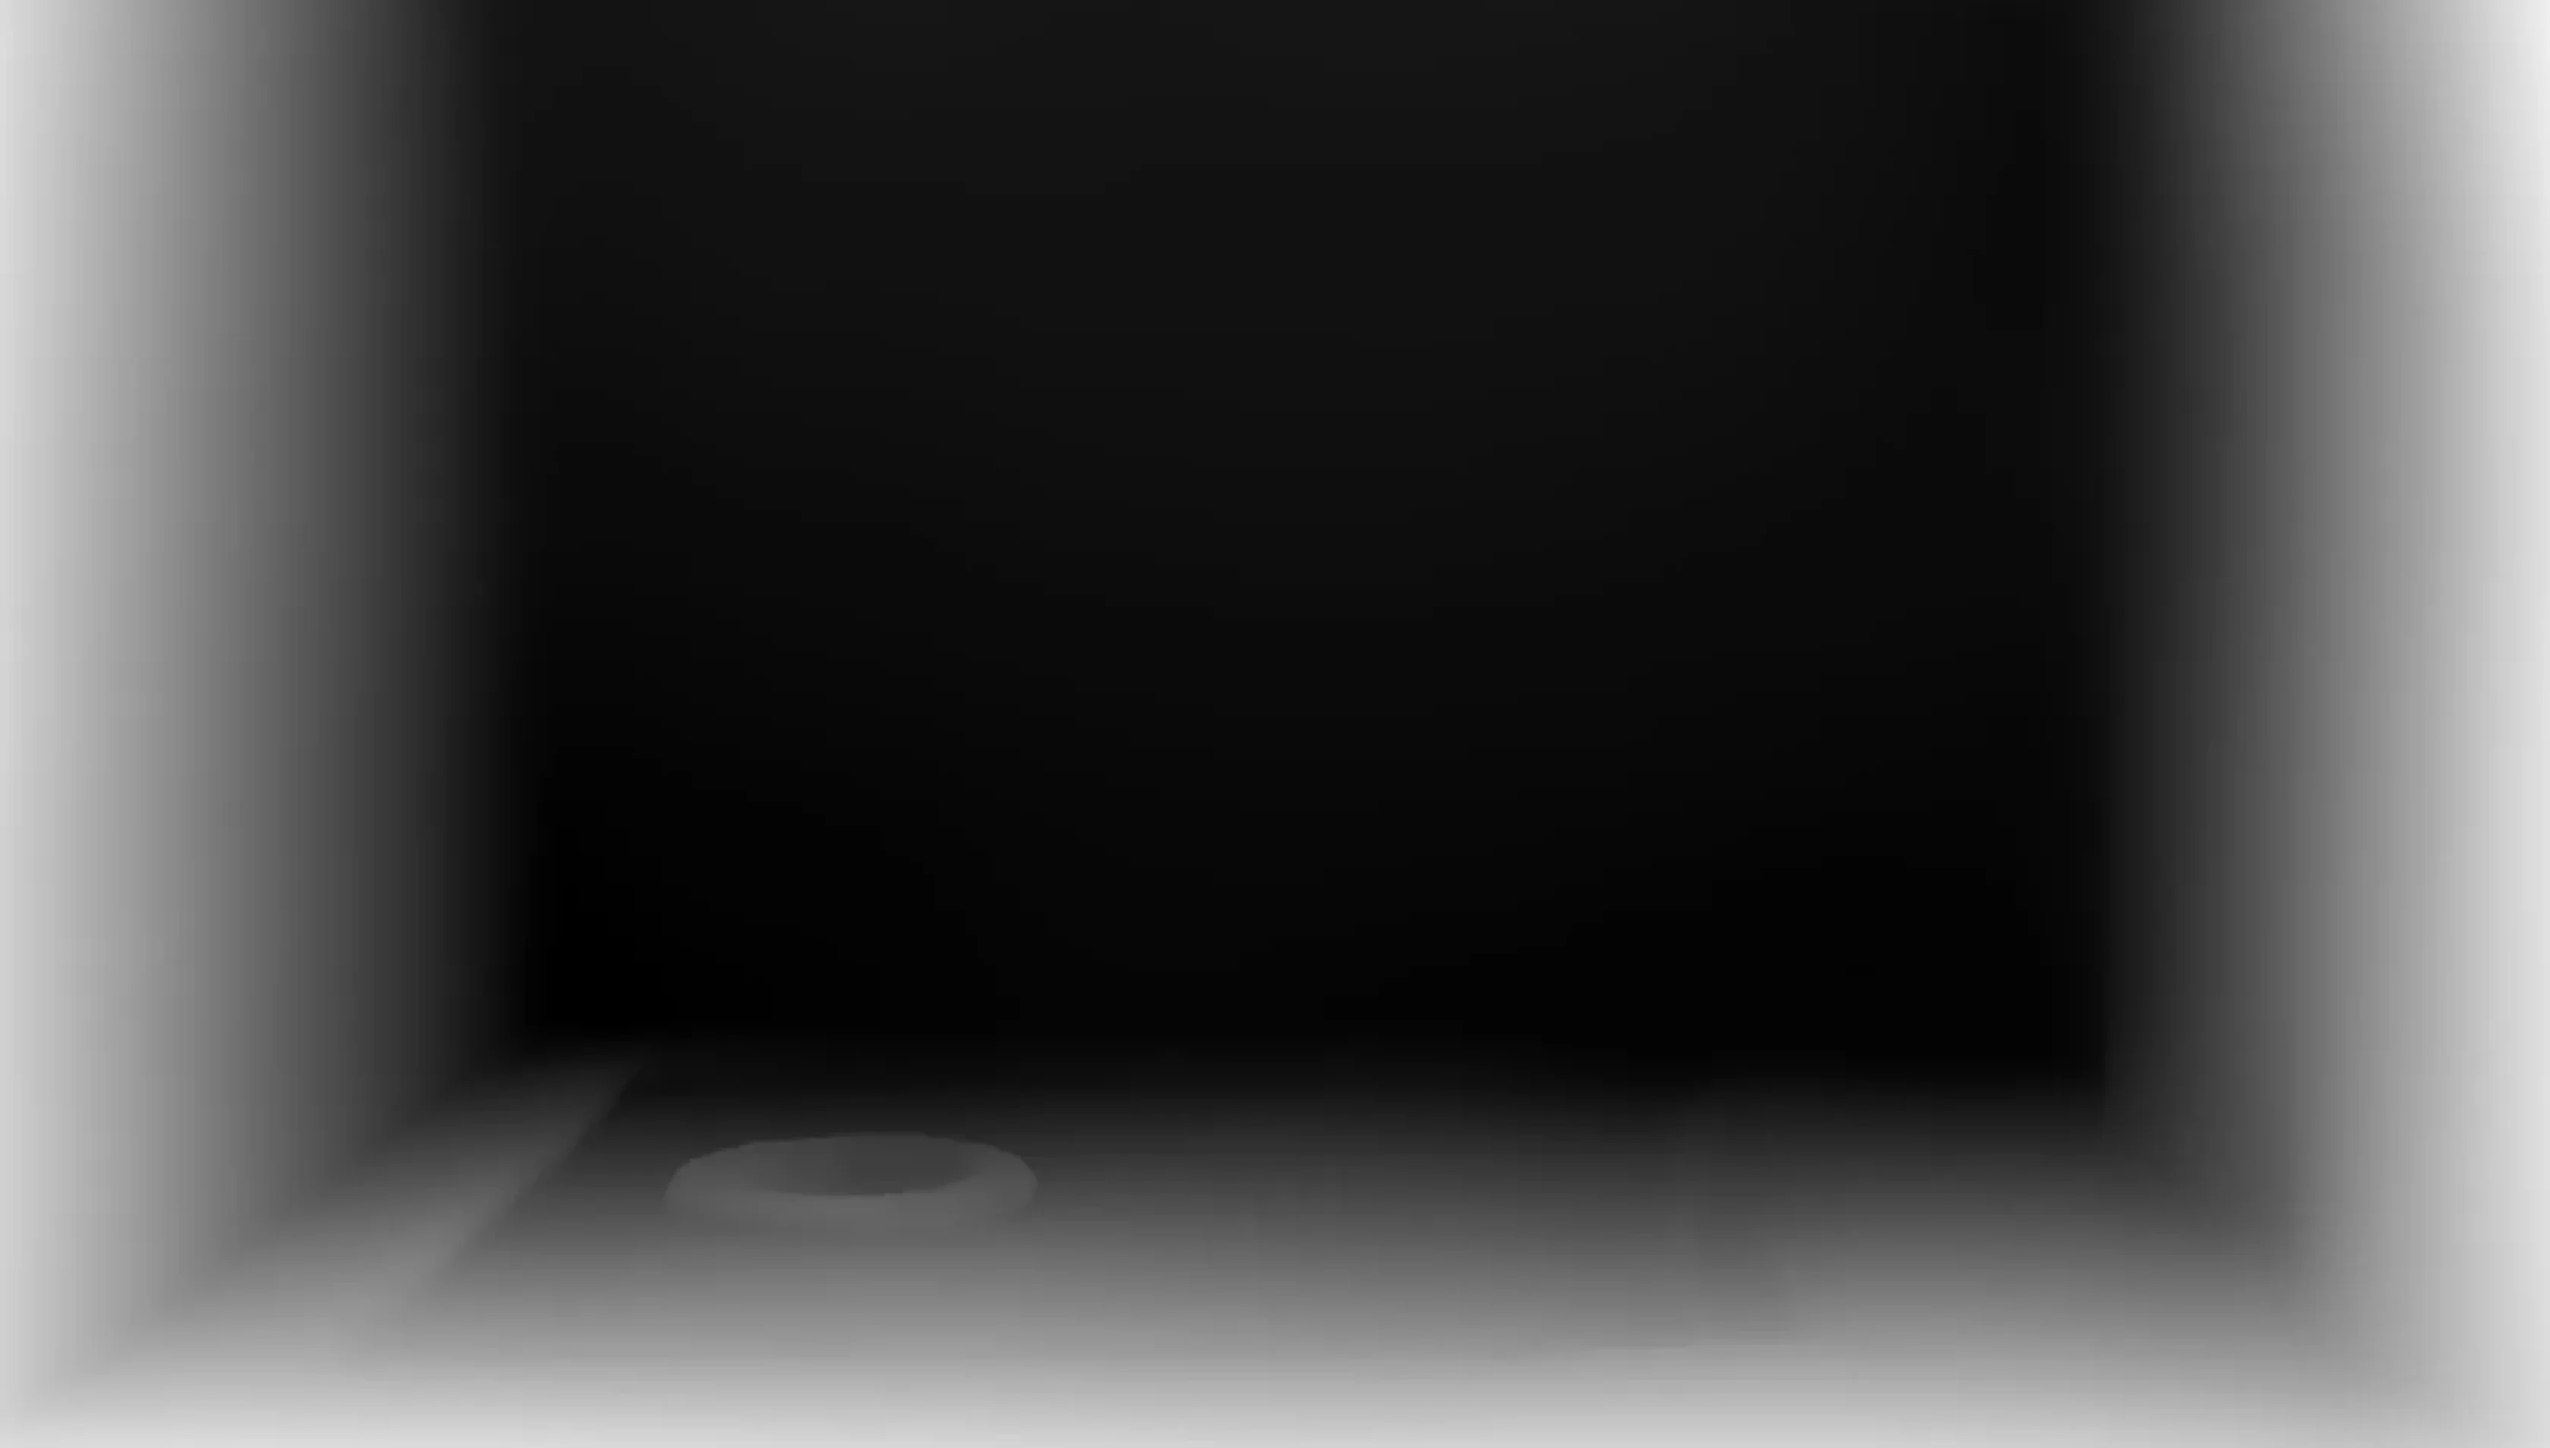
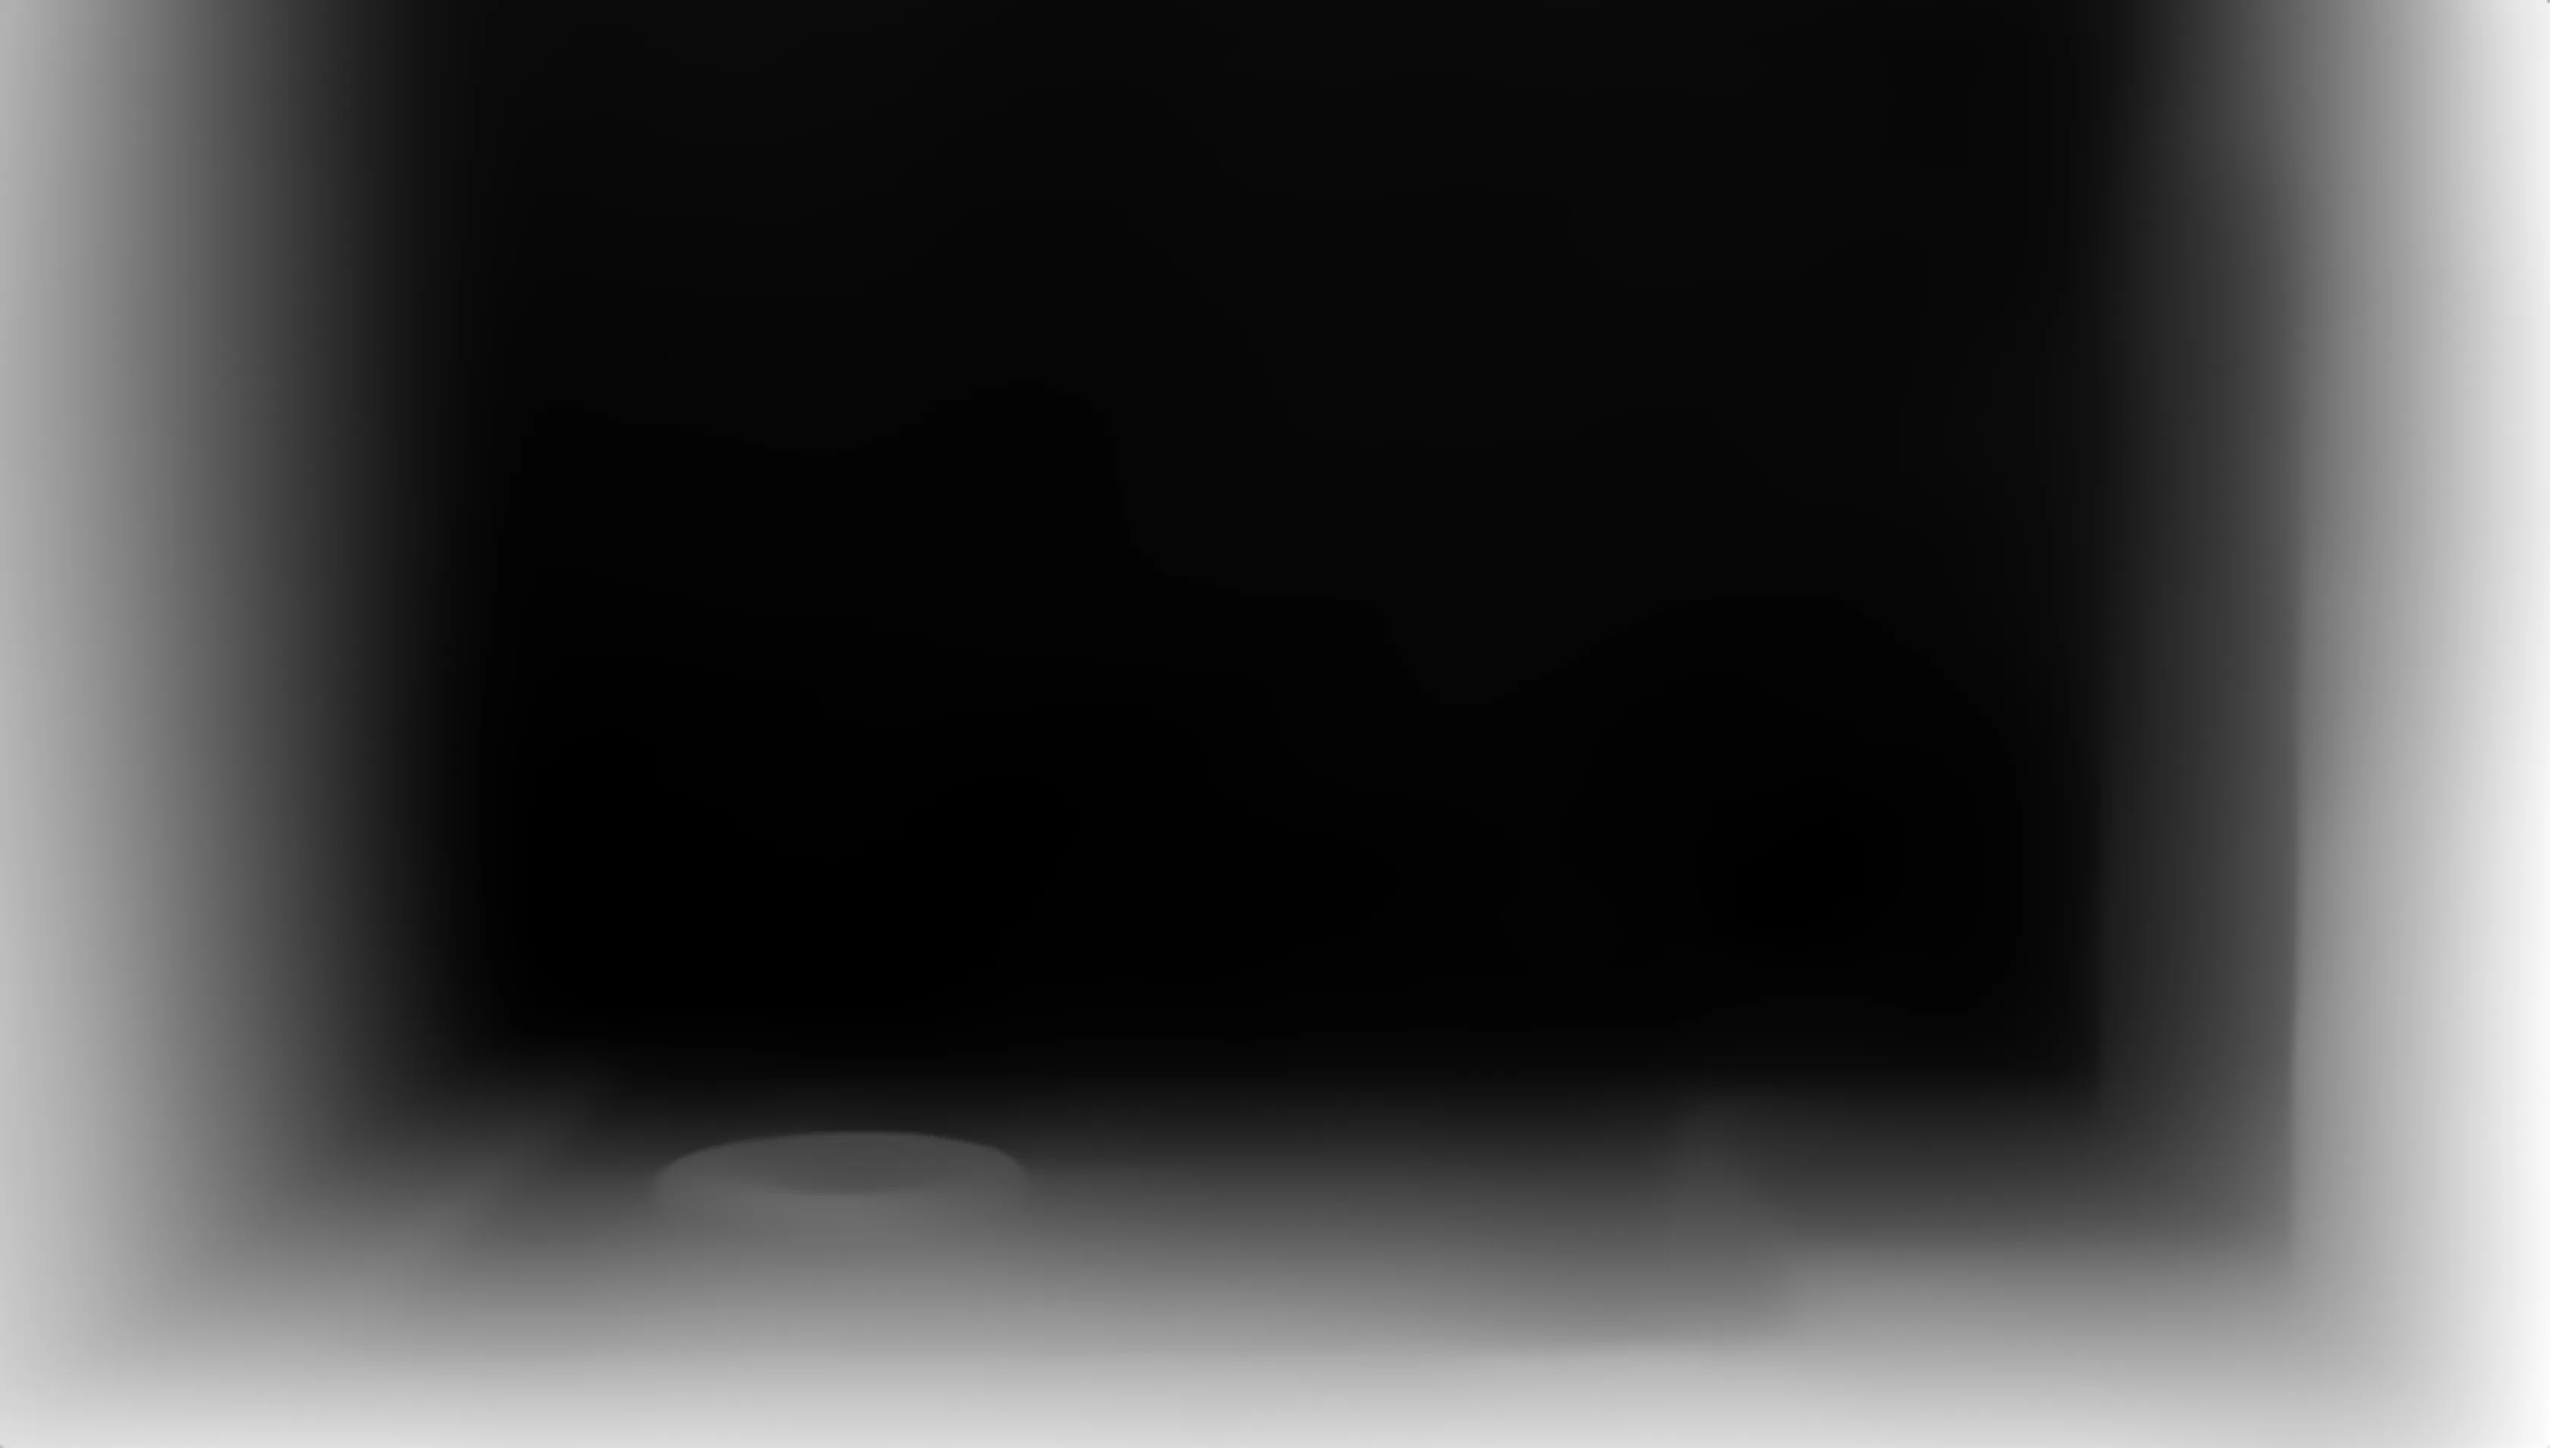
feat: enhanced index

Changed region(s): [[0.0, 0.0, 0.1875, 0.6494], [0.875, 0.6494, 1.0, 1.0]]

diff --git a/app/components/indexPage/ArtSection.vue b/app/components/indexPage/ArtSection.vue
@@ -2,21 +2,21 @@
     <div class="content-section">
         <h2 class="section-header">Art</h2>
         <div class="project-display">
-            <div class="depth-image-container" draggable="false">
+            <div class="depth-image-container" id="poolcore-container" draggable="false">
                 <RevealSlider v-if="!showMouseWarning">
                     <template #foreground>
                         <ParallaxWindowMousetrack albedo="/assets/index/poolcore-blank.webp"
-                            depth="/assets/index/poolcore-depth.webp" :sensitivity-x="0.02" :sensitivity-y="0.02" />
+                            depth="/assets/index/poolcore-depth.webp" :sensitivity-x="0.005" :sensitivity-y="0.005" />
                     </template>
                     <template #background>
-                        <ParallaxWindowMousetrack src="/assets/index/poolcore.webp"
-                        :sensitivity-x="0.02" :sensitivity-y="0.02"/>
+                        <ParallaxWindowMousetrack src="/assets/index/poolcore.webp" :sensitivity-x="0.005"
+                            :sensitivity-y="0.005" />
                     </template>
                 </RevealSlider>
                 <RevealSlider v-else>
                     <template #foreground>
                         <ParallaxWindowScrolltrack albedo="/assets/index/poolcore-blank.webp"
-                            depth="/assets/index/poolcore-depth.webp":sensitivity="0.3" :offset="0.2" />
+                            depth="/assets/index/poolcore-depth.webp" :sensitivity="0.3" :offset="0.2" />
                     </template>
                     <template #background>
                         <ParallaxWindowScrolltrack src="/assets/index/poolcore.webp" :sensitivity="0.3" :offset="0.2" />
@@ -30,13 +30,23 @@
             </p>
             <div class="cat-img-container">
                 <div class="depth-image-container" id="cat-parallax" draggable="false">
-                    <ParallaxWindowMousetrack v-if="!showMouseWarning" src="/assets/index/Cat.webp"
-                        :sensitivity-x="0.02" :sensitivity-y="0.02" :view-height=".45" :offset-y="-2" />
-                    <ParallaxWindowScrolltrack v-else src="/assets/index/Cat.webp" :sensitivity="0.2" :view-height="0.7"
-                        :offset="-.5" :angle="0.45" />
+                    <ParallaxWindowMousetrack v-if="!showMouseWarning" class="class-parallax-img"
+                        src="/assets/index/cat.webp" :sensitivity-x="0.01" :sensitivity-y="0.01" :view-height=".45"
+                        :offset-y="-5" />
+                    <ParallaxWindowScrolltrack v-else src="/assets/index/cat.webp" class="class-parallax-img"
+                        :sensitivity="0.2" :view-height="0.7" :offset="-.5" :angle="0.45" />
                 </div>
-                <p>I use a A7II (ILCE-7M2) for photography. This is a potrait of a random cute cat my grandma always
-                    play with at Changfeng Park, Changning. </p>
+                <div id="cat-parallax-text">
+                    <h3>Photography</h3>
+                    <div>
+                        <p>I use a A7II (ILCE-7M2) for photography. This is a potrait of a random cute cat my grandma
+                            always
+                            play with at Changfeng Park, Changning. </p>
+                        <p>Most of the time I don't do still photography; I do VFX and composition for my friends. I use
+                            davinci and
+                            blender on my M2 MBP 2022 13-inch.</p>
+                    </div>
+                </div>
             </div>
         </div>
     </div>
@@ -77,6 +87,8 @@ onMounted(() => {
 </script>
 
 <style lang="scss" scoped>
+@use "assets/theme.scss" as *;
+
 .content-section {
     margin: 2rem 0;
 }
@@ -92,20 +104,63 @@ onMounted(() => {
 }
 
 .cat-img-container {
-    display: flex;
+    margin: 2rem auto;
+    display: grid;
+    gap: .5rem;
     align-items: center;
-    gap: 2rem;
+
+    /* Mobile: Vertical Stack */
+    grid-template-areas:
+        "title"
+        "image"
+        "description";
 
     #cat-parallax {
-        flex: 1;
-        flex-basis: 60%;
-        min-width: 0;
+        grid-area: image;
     }
 
-    > p {
-        flex: 1;
-        flex-basis: 40%;
-        min-width: 0;
+    #cat-parallax-text {
+        display: contents;
+    }
+
+    h3 {
+        grid-area: title;
+        margin: 0;
+    }
+
+    p {
+        grid-area: description;
+        margin: 0;
+    }
+
+    @media (min-width: #{$critical-width}) {
+        // Define a 2-column, 2-row grid
+        grid-template-columns: 40% 1fr;
+        grid-template-rows: auto auto;
+        grid-template-areas:
+            "image title"
+            "image description";
+        gap: 5vw;
+
+        #cat-parallax {
+            grid-row: 1 / span 2;
+        }
+
+        #cat-parallax-text {
+            display: flex;
+            flex-direction: column;
+            justify-content: center;
+            grid-area: auto; // Reset area
+            grid-column: 2; // Force to second column
+            grid-row: 1 / span 2; // Span both rows to match image height
+            gap: 1rem;
+            width: 100%;
+        }
+
+        h3,
+        p {
+            grid-area: auto;
+        }
     }
 }
 
@@ -113,7 +168,10 @@ onMounted(() => {
     .depth-image-container {
         text-align: center;
         user-select: none;
-        margin: 2rem 0;
+
+        &#poolcore-container {
+            margin: 2rem 0;
+        }
 
 
         small {

diff --git a/app/components/content/ParallaxWindowMousetrack.vue b/app/components/content/ParallaxWindowMousetrack.vue
@@ -1,7 +1,8 @@
 <template>
     <div ref="elementRef" class="image-like">
         <ParallaxWindow :albedo="derivedAlbedo" :depth="derivedDepth" :alt="props.alt" :sensitivity-x="props.sensitivityX"
-            :sensitivity-y="props.sensitivityY" ref="pwindow" :reverse-depth="props.reverse" :view-height="props.viewHeight" />
+            :sensitivity-y="props.sensitivityY" ref="pwindow" :reverse-depth="props.reverse" :view-height="props.viewHeight"
+            :offset-x="props.offsetX" :offset-y="props.offsetY" />
         <div v-if="!hasMouse && props.showWarning" class="no-mouse-overlay" @click="isWarningVisible = !isWarningVisible">
             <Icon name="uil:exclamation-triangle" size="1.2em" />
         </div>
@@ -11,7 +12,7 @@
 </template>
 
 <script setup lang="ts">
-import { ref, watch, onMounted } from 'vue';
+import { ref, watch, onMounted, onUnmounted } from 'vue';
 import { useElementMouse } from '~/utils/useElementMouse';
 import WarningTag from '../uikit/WarningTag.vue';
 
@@ -69,8 +70,31 @@ const isWarningVisible = ref(false);
 // Detect if device supports mouse hover interactions
 const hasMouse = ref(true);
 
+// Track if element is in viewport
+const isInViewport = ref(true);
+let intersectionObserver: IntersectionObserver | null = null;
+
 onMounted(() => {
     hasMouse.value = window.matchMedia('(hover: hover)').matches;
+
+    // Setup Intersection Observer to track viewport visibility
+    if (elementRef.value && 'IntersectionObserver' in window) {
+        intersectionObserver = new IntersectionObserver(
+            (entries) => {
+                entries.forEach((entry) => {
+                    isInViewport.value = entry.isIntersecting;
+                });
+            },
+            { threshold: 0 }
+        );
+        intersectionObserver.observe(elementRef.value);
+    }
+});
+
+onUnmounted(() => {
+    if (intersectionObserver) {
+        intersectionObserver.disconnect();
+    }
 });
 
 const { mouseX, mouseY } = useElementMouse(elementRef);
@@ -80,8 +104,14 @@ function lerp(a: number, b: number, t: number): number {
     return a + (b - a) * t;
 }
 
-watch([mouseX, mouseY], ([newX, newY]) => {
+watch([mouseX, mouseY, isInViewport], ([newX, newY, inViewport]) => {
     if (pwindow.value && pwindow.value.render) {
+        // Center the mouse when not in viewport
+        if (!inViewport) {
+            pwindow.value.render(0, 0);
+            return;
+        }
+
         // Normalize mouse values from [0, 1] to [-1, 1] using lerp
         const normalizedX = lerp(-1, 1, newX);
         const normalizedY = lerp(-1, 1, newY);

diff --git a/app/components/content/ParallaxWindow.vue b/app/components/content/ParallaxWindow.vue
@@ -145,7 +145,7 @@ async function setupShader(canvas: HTMLCanvasElement) {
         uViewHeight: gl.getUniformLocation(program, 'u_viewHeight'),
     };
 
-    const render = (offsetX: number = props.offsetX, offsetY: number = props.offsetY) => {
+    const render = (offsetX: number = 0, offsetY: number = 0) => {
         if (!canvas) return;
         const dpr = window.devicePixelRatio || 1;
         canvas.width = canvas.clientWidth * dpr;
@@ -154,8 +154,11 @@ async function setupShader(canvas: HTMLCanvasElement) {
         gl.clearColor(0, 0, 0, 0);
         gl.clear(gl.COLOR_BUFFER_BIT);
 
-        // Feed in the provided offsets
-        gl.uniform2f(uniforms.uOffset, offsetX, offsetY);
+        // Combine base props offset with dynamic offset
+        const totalOffsetX = props.offsetX + offsetX;
+        const totalOffsetY = props.offsetY + offsetY;
+
+        gl.uniform2f(uniforms.uOffset, totalOffsetX, totalOffsetY);
         gl.uniform2f(uniforms.uRes, canvas.width, canvas.height);
         gl.uniform2f(uniforms.uImageRes, albedoResult.width, albedoResult.height);
         gl.uniform2f(uniforms.uSensitivity, props.sensitivityX, props.sensitivityY);
@@ -181,7 +184,7 @@ onMounted(async () => {
     if (shader) {
         renderFn = shader.render;
         const resizeObserver = new ResizeObserver(() => {
-            if (renderFn) renderFn(0, 0);
+            if (renderFn) renderFn(props.offsetX, props.offsetY);
         });
         resizeObserver.observe(parallaxCanvas.value);
     }
@@ -223,8 +226,17 @@ canvas {
 .image-like-content {
     display: block;
     width: 80%;
-    border-radius: 1rem;
+    /* Default width */
+    max-width: 100%;
+    /* Ensure it doesn't bleed out */
+    max-height: 50vh;
+    /* The "Master" constraint */
     height: auto;
+    /* Allow height to be determined by aspect-ratio */
+    width: auto;
+    /* Crucial: allow width to shrink if max-height is hit */
+    margin: 0 auto;
+    border-radius: 1rem;
 }
 
 @media (max-width: $critical-width) {

diff --git a/app/pages/index.vue b/app/pages/index.vue
@@ -97,7 +97,7 @@ useIntersectionObserver(
             showAuthorSection.value = entry.isIntersecting;
         }
     },
-    { threshold: 0.2, rootMargin: '0px 0px -10% 0px' }
+    { threshold: 0.1, rootMargin: '0px 0px -10% 0px' }
 );
 
 useIntersectionObserver(
@@ -198,7 +198,7 @@ body {
 .author-section {
     position: relative;
     opacity: 0;
-    transform: translateY(100%);
+    transform: translateY(80%);
     transition: all 0.3s ease-out;
 }
 

diff --git a/app/components/indexPage/SubscribeViaEmail.vue b/app/components/indexPage/SubscribeViaEmail.vue
@@ -1,0 +1,2 @@
+<template>
+</template>

diff --git a/download.py b/download.py
@@ -18,7 +18,7 @@ def download_depth_model(repo_id, local_dir):
         print(f"❌ Error downloading model: {e}")
 
 if __name__ == "__main__":
-    MODEL_ID = "Xenova/depth-anything-small-hf"
-    SAVE_PATH = "./models/depth-model"
+    MODEL_ID = "Qwen/Qwen3-VL-Embedding-2B"
+    SAVE_PATH = "./models/embed-model"
     
     download_depth_model(MODEL_ID, SAVE_PATH)
